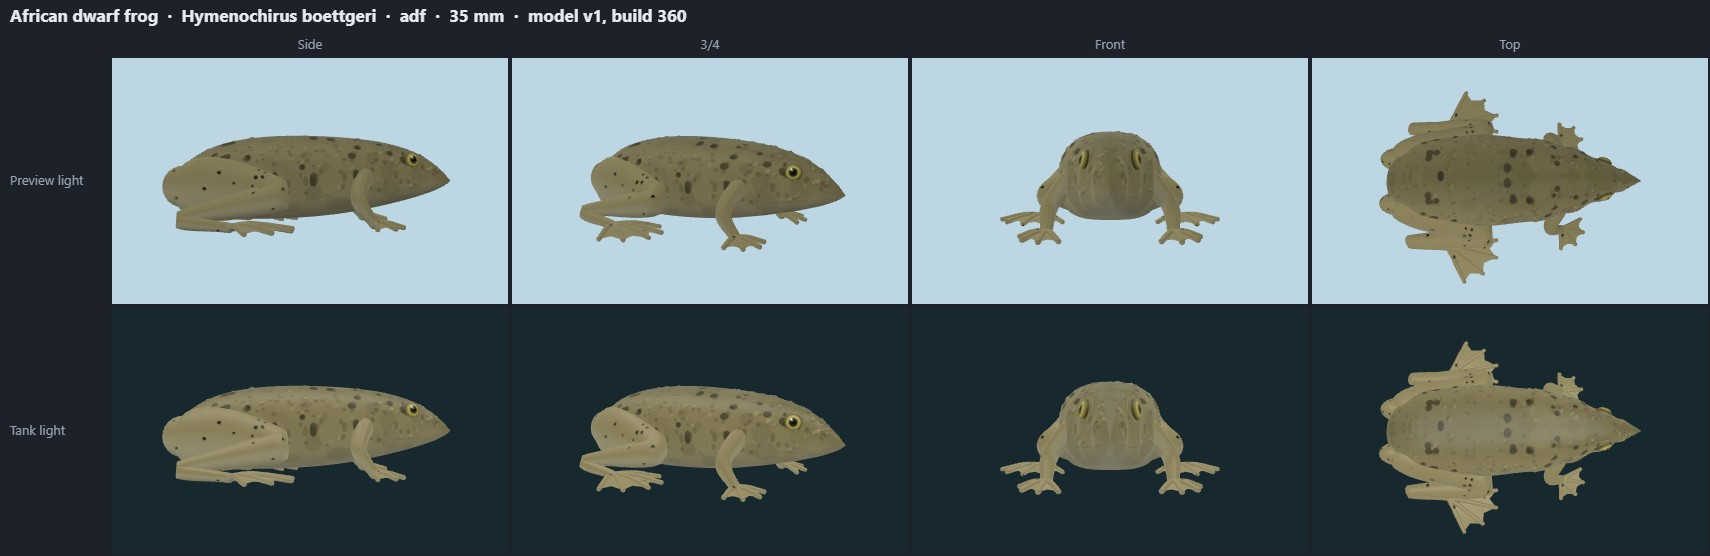
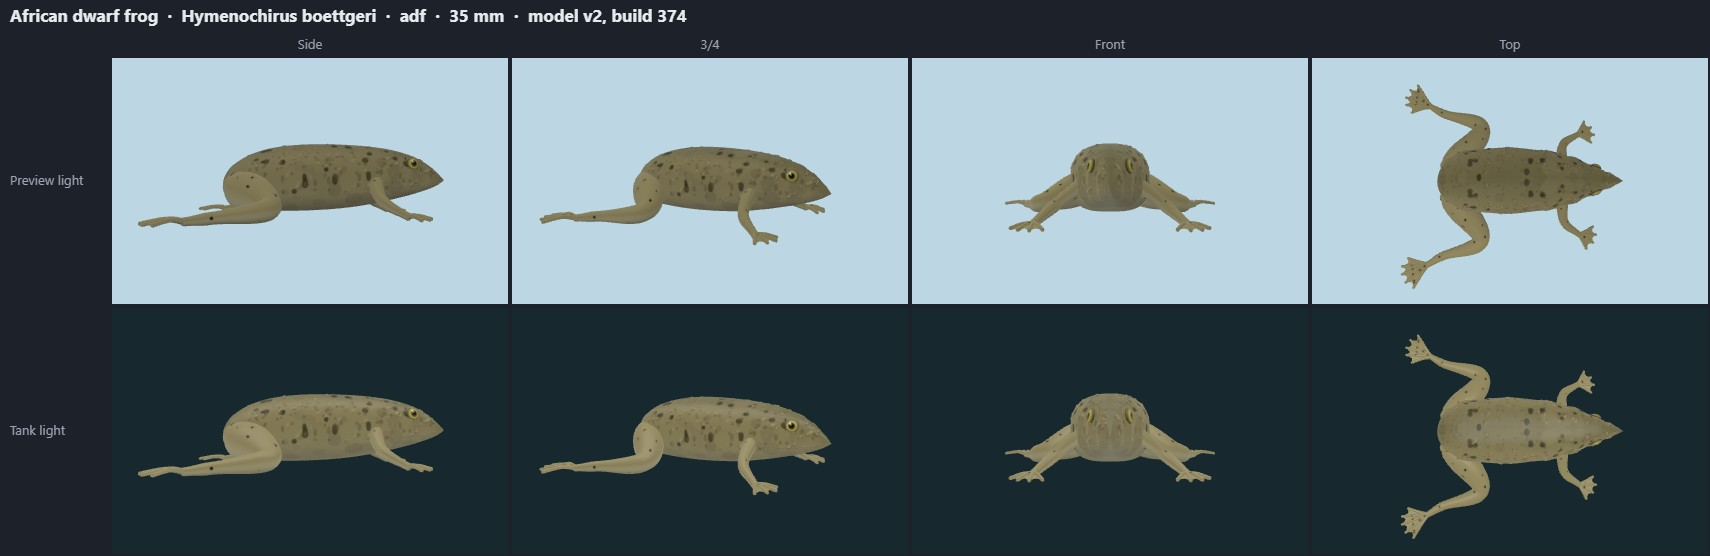
African dwarf frog: splayed resting pose (v2, build 374)
Hind legs splayed out sideways, knees forward, the webbed feet trailing
back and out; arms out to the sides, hands spread forward. ADF only
(adfLimbs overrides frog3D's folded legs); other frogs unchanged.

diff --git a/public/model-sheets/index.html b/public/model-sheets/index.html
@@ -10,7 +10,7 @@ figure { margin: 8px 0 14px; padding: 8px; background: var(--panel); border-radi
 img { display: block; max-width: 100%; height: auto }
 </style></head><body>
 <h1>Model sheets</h1>
-<p>Pre-rendered review images of every TankLook animal model (no WebGL needed): 69 models, 58 species, written at build 372.
+<p>Pre-rendered review images of every TankLook animal model (no WebGL needed): 69 models, 58 species, written at build 374.
 Each sheet shows the Side, 3/4, Front, Top views; top row in the plain preview light, bottom row at true size in the default tank's LED light and water.
 Click a sheet for the full-size image (1710 × 556 px). Interactive version: <a href="../review.html">review.html</a>.</p>
 <h2>Freshwater fish</h2>
@@ -85,7 +85,7 @@ Click a sheet for the full-size image (1710 × 556 px). Interactive version: <a 
 <figure id="treefrog"><figcaption><b>White's tree frog</b> · <i>Ranoidea caerulea</i> · treefrog · 100 mm · model v3 (build 297, 2026-10-14)</figcaption><a href="treefrog.jpg"><img src="treefrog.jpg" width="1710" height="556" loading="lazy" alt="White's tree frog (Ranoidea caerulea), model v3: Side, 3/4, Front, Top views, preview light (top row) and tank light (bottom row)"></a></figure>
 <figure id="firetoad"><figcaption><b>Fire-bellied toad</b> · <i>Bombina orientalis</i> · firetoad · 45 mm · model v3 (build 297, 2026-10-14)</figcaption><a href="firetoad.jpg"><img src="firetoad.jpg" width="1710" height="556" loading="lazy" alt="Fire-bellied toad (Bombina orientalis), model v3: Side, 3/4, Front, Top views, preview light (top row) and tank light (bottom row)"></a></figure>
 <figure id="firenewt"><figcaption><b>Chinese fire-bellied newt</b> · <i>Cynops orientalis</i> · firenewt · 90 mm · model v3 (build 297, 2026-10-14)</figcaption><a href="firenewt.jpg"><img src="firenewt.jpg" width="1710" height="556" loading="lazy" alt="Chinese fire-bellied newt (Cynops orientalis), model v3: Side, 3/4, Front, Top views, preview light (top row) and tank light (bottom row)"></a></figure>
-<figure id="adf"><figcaption><b>African dwarf frog</b> · <i>Hymenochirus boettgeri</i> · adf · 35 mm · model v1 (build 360, 2026-10-14)</figcaption><a href="adf.jpg"><img src="adf.jpg" width="1710" height="556" loading="lazy" alt="African dwarf frog (Hymenochirus boettgeri), model v1: Side, 3/4, Front, Top views, preview light (top row) and tank light (bottom row)"></a></figure>
+<figure id="adf"><figcaption><b>African dwarf frog</b> · <i>Hymenochirus boettgeri</i> · adf · 35 mm · model v2 (build 374, 2026-10-14)</figcaption><a href="adf.jpg"><img src="adf.jpg" width="1710" height="556" loading="lazy" alt="African dwarf frog (Hymenochirus boettgeri), model v2: Side, 3/4, Front, Top views, preview light (top row) and tank light (bottom row)"></a></figure>
 <figure id="axolotl"><figcaption><b>Axolotl</b> · <i>Ambystoma mexicanum</i> · axolotl · 230 mm · model v3 (build 317, 2026-10-14)</figcaption><a href="axolotl.jpg"><img src="axolotl.jpg" width="1710" height="556" loading="lazy" alt="Axolotl (Ambystoma mexicanum), model v3: Side, 3/4, Front, Top views, preview light (top row) and tank light (bottom row)"></a></figure>
 
 

diff --git a/src/art/herps.ts b/src/art/herps.ts
@@ -429,6 +429,20 @@ function frogOnGlass3D(s: FrogSpec, fat: number, tone: [number, string][], marks
     ground: frogV(s.aspect, 0.265),
   };
 }
+/**
+ * The African dwarf frog resting on the bottom: hind legs splayed out sideways (thigh out from the hip, knee bent
+ * forward, shank back), the long webbed feet trailing back and out; arms out to the sides, hands spread forward.
+ */
+function adfLimbs(): Limb3D[] {
+  const s = FROGS.adf, V = (v: number) => frogV(s.aspect, v), J = (u: number, v: number, z: number, r: number): Joint => [u, V(v), z, r];
+  const toe = 0.008;
+  return [
+    { js: [J(0.16, 0.13, 0.08, 0.06), J(0.3, 0.215, 0.29, 0.04), J(0.1, 0.248, 0.37, 0.022), J(0.03, 0.256, 0.41, 0.015)],
+      toes: [[-0.1, -0.03], [-0.13, 0.01], [-0.13, 0.05], [-0.11, 0.09], [-0.07, 0.115]], toe, thigh: 0.08, blunt: true, web: 1 },
+    { js: [J(0.7, 0.1, 0.09, 0.03), J(0.72, 0.19, 0.2, 0.022), J(0.8, 0.248, 0.26, 0.015)],
+      toes: [[0.07, -0.04], [0.085, 0.0], [0.07, 0.04], [0.035, 0.07]], toe, blunt: true, web: 1 },
+  ];
+}
 const FROG_FACE: Mark3D[] = [
   { k: 'line', pts: [[0.74, 0.6], [0.84, 0.63], [0.94, 0.64], [0.995, 0.58]], c: '#0e100c', o: 0.25, w: 0.004 }, // mouth
   { k: 'spots', n: 2, u: [0.968, 0.972], a: [0.17, 0.23], r: [0.005, 0.005], c: '#141410', o: 0.6, seed: 1 },      // nostrils
@@ -502,6 +516,7 @@ export const HERP3D: Record<string, Herp3D> = {
     { k: 'spots', n: 140, u: [0.1, 0.95], a: [0.0, 0.6], r: [0.005, 0.008], c: '#4f4a39', o: 0.5, seed: 42 },
     { k: 'line', pts: [[0.8, 0.62], [0.9, 0.64], [0.995, 0.6]], c: '#0e100c', o: 0.22, w: 0.003 }, // mouth
   ], { c: '#2f2c21', r: 0.01, n: 14 }),
+    limbs: adfLimbs(),
     warts: { n: 120, u: [0.15, 0.95], a: [0.02, 0.6], r: [0.007, 0.011], h: 0.45, seed: 43 } },
   // dark brown-black and granular above, the orange belly showing low on the flank
   // a broad trunk, a rounded head a little wider than the neck, the tail flattened side to side

diff --git a/HANDOFF.md b/HANDOFF.md
@@ -718,9 +718,14 @@ Plan approved by Nathan (batches in severity order). Pictures: `shots/g2/` in th
   spots, webbing on all four feet. New `FrogSpec` fields `web` (all feet) and `eye` (own eye position); the other three
   frogs' fingerprints did not change. Added to `fish3d.species` (3D on).
 - AqAdvisor has no entry: stand-in Panda Cory (3.5 cm vs 5 cm, bottom, warm, groups), `standIn` in aqadvisor.json.
-- Model v1 at build 360, sheet `public/model-sheets/adf.jpg`. Awaiting Nathan's look. Open: it uses the land
-  frogs' sitting pose (hind legs folded); a real ADF often rests with the hind legs splayed out sideways, or floats at
-  the surface in a "zen" pose; not done.
+- Model v1 at build 360, sheet `public/model-sheets/adf.jpg`.
+- **v2 at build 374 (Nathan: "a resting pose with the hind legs splayed out sideways, like a real ADF on the bottom"):**
+  `adfLimbs()` overrides frog3D's folded legs for `HERP3D.adf` only: thighs out sideways from the hips, knees bent
+  forward, the long webbed feet trailing back and out (past the tail end, u < 0); arms out to the sides, webbed hands
+  spread forward. The 2D card keeps the folded side view (in 3D it is only the invisible picking target). Open: a
+  floating "zen" pose at the surface; not done.
+- Gotcha: `npm run sheets` renders in headless software WebGL, whose fingerprints differ from a GPU's for every model,
+  so the sheets script cannot record versions (tried: it bumped all 68). Record from a dev server's review page only.
 
 ## Tree frogs climb the glass (2026-10-14; Nathan: "like otos and snails cling to the glass")
 - White's tree frog has `cling: any` (glass, hardscape, floor). Shuffle / Add use the oto path (`spawnSnail`) with a new
